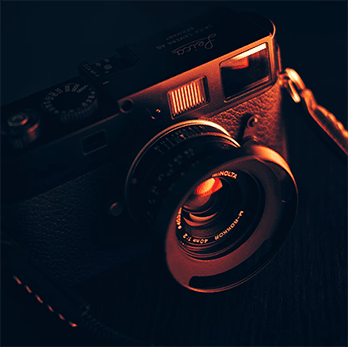
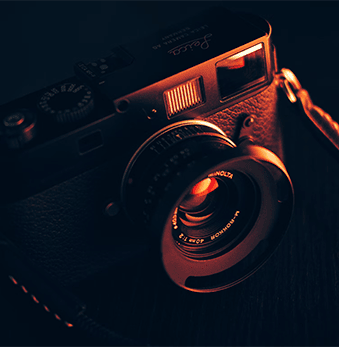
ajout width et height

diff --git a/assets/style.css b/assets/style.css
@@ -1,342 +1,1 @@
-body {
-  max-width: 1920px;
-  margin: auto;
-}
-* {
-  font-family: "Inter";
-  font-style: normal;
-}
-.top-header {
-  background-color: white;
-  position: sticky;
-  top: 0;
-  z-index: 1000;
-  display: flex;
-  justify-content: space-between;
-  padding-inline: 100px;
-  padding-block: 30px;
-  align-items: center;
-}
-.top-header .name {
-  font-size: 26px;
-}
-.nav ul {
-  display: flex;
-  list-style-type: none;
-  font-size: 14px;
-  margin-bottom: 0;
-}
-.nav li {
-  padding-inline: 10px;
-}
-.nav a {
-  text-decoration: none;
-  color: #000;
-}
-.social-link img {
-  width: 20px;
-}
-#about {
-  display: flex;
-  background-color: #f6d2b8;
-  padding-inline: 100px;
-  padding-block: 100px;
-  position: relative;
-}
-.picture.left::before {
-  content: " ";
-  background-color: #e5975f;
-  width: 374px;
-  height: 329px;
-  position: absolute;
-  bottom: 0;
-  left: 0;
-  z-index: -1;
-}
-.picture {
-  flex: 1;
-  margin: 0 20px;
-  z-index: 0;
-}
-.picture img {
-  width: 100%;
-  height: 100%;
-}
-#about-me {
-  flex: 2;
-}
-.about-me__title {
-  margin-top: 1em;
-  margin-bottom: 60px;
-  font-size: 30px;
-}
-.about-me__introduction {
-  font-family: "Spectral";
-  font-weight: 800;
-  font-style: italic;
-  width: 60%;
-}
-#about-me p {
-  width: 80%;
-  font-size: 14px;
-}
-#gallery {
-}
-.title {
-  text-align: center;
-  padding-block: 2em;
-}
-.gallery .nav {
-  justify-content: center;
-}
-.nav-pills .nav-link.active,
-.nav-pills .show > .nav-link {
-  color: #fff;
-  background-color: #1b6474;
-  border-radius: 0;
-}
-.nav-pills .nav-link {
-  color: #000;
-}
-.item-column {
-  position: relative;
-  margin-bottom: 0 !important;
-  padding: 0;
-}
-.item-column::after {
-  content: "";
-  display: block;
-  padding-bottom: 100%;
-}
-.gallery-item {
-  position: absolute;
-  width: 100%;
-  height: 100%;
-  object-fit: cover;
-  padding: 0.5em;
-}
-.mg-prev,
-.mg-next {
-  width: 30px;
-  height: 30px;
-  border-radius: 00%;
-  justify-content: center;
-  align-items: center;
-  display: flex;
-  font-size: 24px;
-}
-.quote {
-  font-family: "Spectral";
-  font-style: italic;
-  width: 70%;
-  margin: auto;
-  padding-block: 3em;
-}
-.quote__text {
-  font-family: Spectral;
-  font-style: italic;
-  font-weight: 300;
-}
-.quote__author {
-  font-family: Spectral;
-  font-weight: 800;
-  font-size: 22px;
-}
-#services {
-  margin: auto;
-  background-color: #a8d5d8;
-  position: relative;
-}
-#services .container::before {
-  content: " ";
-  background-color: #1c6474;
-  position: absolute;
-  width: 100%;
-  height: 30%;
-  bottom: 0;
-  left: 0;
-  z-index: 0;
-}
-#services .container {
-  justify-content: space-between;
-  display: flex;
-  padding: 2em 0;
-}
-.service {
-  background-color: white;
-  max-width: 390px;
-  width: 30%;
-  height: 337px;
-  padding: 1em;
-  display: flex;
-  flex-direction: column;
-  justify-content: space-between;
-  z-index: 1;
-}
-#contact {
-  margin: auto;
-  background-color: #d8d3a8;
-  position: relative;
-  padding-inline: 100px;
-  padding-block: 100px;
-}
-#contact .container {
-  display: flex;
-}
-.picture.right::before {
-  content: " ";
-  background-color: #beb45a;
-  width: 374px;
-  height: 329px;
-  position: absolute;
-  bottom: 0;
-  right: 0;
-  z-index: -1;
-}
-.form-container {
-  flex: 2;
-}
-form {
-  display: flex;
-  flex-direction: column;
-  width: 70%;
-  align-items: flex-start;
-}
-form input {
-  width: 100%;
-  background-color: transparent;
-  border: solid 1px;
-  height: 2.5em;
-  margin-bottom: 20px;
-}
-form textarea {
-  width: 100%;
-  background-color: transparent;
-  border: solid 1px;
-  height: 5em;
-  line-height: 2.5em;
-  font-size: 1.2em;
-  margin-bottom: 20px;
-}
-input[type="submit"] {
-  background-color: #beb45a;
-  padding: 0.5em 1em;
-}
-@media all and (max-width: 1180px) {
-  .picture {
-    flex: 2;
-  }
-  #about,
-  #contact .container {
-    align-items: center;
-  }
-  .about-me__title {
-    margin-top: 0;
-    margin-bottom: 1em;
-  }
-  #about-me h6,
-  #about-me p {
-    width: 100%;
-  }
-}
-@media all and (max-width: 1000px) {
-  #about {
-    flex-direction: column;
-  }
-  .picture {
-    width: 50%;
-  }
-  .picture.left::before {
-    width: 100%;
-    height: 30%;
-    position: absolute;
-    bottom: auto;
-    top: 0;
-    left: 0;
-    z-index: -1;
-  }
-  .about-me__title {
-    text-align: center;
-    margin-top: 1em;
-  }
-  #services .container {
-    flex-direction: column;
-  }
-  .service {
-    width: 100%;
-    max-width: 100%;
-    height: auto;
-    margin: 2em 0;
-  }
-  .service__description {
-    margin-bottom: 1em;
-  }
-  #services .container::before {
-    width: 30%;
-    height: 100%;
-    bottom: 0;
-    right: 0;
-    left: auto;
-    z-index: 0;
-  }
-  #contact .container {
-    flex-direction: column;
-  }
-  #contact .picture.right {
-    margin-top: 1em;
-  }
-  .picture.right::before {
-    width: 100%;
-    height: 30%;
-    position: absolute;
-    bottom: 0;
-    right: 0;
-    z-index: -1;
-  }
-}
-@media all and (max-width: 650px) {
-  .top-header {
-    flex-direction: column;
-    padding-inline: 0;
-  }
-  .top-header .nav,
-  .top-header .nav ul {
-    width: 100%;
-    padding: 0 0 0 0;
-  }
-  .top-header .nav li {
-    flex: 1;
-    padding-block: 1em;
-    text-align: center;
-  }
-  .picture.left::before,
-  .picture.right::before {
-    height: 150px;
-  }
-  #services .container {
-    align-items: center;
-  }
-  .service {
-    max-width: 90%;
-  }
-  #about,
-  #contact {
-    padding-inline: 2em;
-    padding-block: 2em;
-  }
-  form {
-    width: 100%;
-  }
-  .picture {
-    width: 80%;
-  }
-}
-footer {
-  background-color: #1c6474;
-  padding-block: 2em;
-  color: white;
-  text-align: center;
-  a {
-    color: white;
-  }
-}
+body{max-width:1920px;margin:auto;}*{font-family:"Inter";font-style:normal;}.top-header{background-color:white;position:sticky;top:0;z-index:1000;display:flex;justify-content:space-between;padding-inline:100px;padding-block:30px;align-items:center;}.top-header .name{font-size:26px;}.nav ul{display:flex;list-style-type:none;font-size:14px;margin-bottom:0;}.nav li{padding-inline:10px;}.nav a{text-decoration:none;color:#000;}.social-link img{width:20px;}#about{display:flex;background-color:#f6d2b8;padding-inline:100px;padding-block:100px;position:relative;}.picture.left::before{content:" ";background-color:#e5975f;width:374px;height:329px;position:absolute;bottom:0;left:0;z-index:-1;}.picture{flex:1;margin:0 20px;z-index:0;}.picture img{width:100%;}#about-me{flex:2;}.about-me__title{margin-top:1em;margin-bottom:60px;font-size:30px;}.about-me__introduction{font-family:"Spectral";font-weight:800;font-style:italic;width:60%;}#about-me p{width:80%;font-size:14px;}#gallery{}.title{text-align:center;padding-block:2em;}.gallery .nav{justify-content:center;}.nav-pills .nav-link.active,.nav-pills .show>.nav-link{color:#fff;background-color:#1b6474;border-radius:0;}.nav-pills .nav-link{color:#000;}.item-column{position:relative;margin-bottom:0!important;padding:0;}.item-column::after{content:"";display:block;padding-bottom:100%;}.gallery-item{position:absolute;width:100%;height:100%;object-fit:cover;padding:.5em;}.mg-prev,.mg-next{width:30px;height:30px;border-radius:00%;justify-content:center;align-items:center;display:flex;font-size:24px;}.quote{font-family:"Spectral";font-style:italic;width:70%;margin:auto;padding-block:3em;}.quote__text{font-family:Spectral;font-style:italic;font-weight:300;}.quote__author{font-family:Spectral;font-weight:800;font-size:22px;}#services{margin:auto;background-color:#a8d5d8;position:relative;}#services .container::before{content:" ";background-color:#1c6474;position:absolute;width:100%;height:30%;bottom:0;left:0;z-index:0;}#services .container{justify-content:space-between;display:flex;padding:2em 0;}.service{background-color:white;max-width:390px;width:30%;height:337px;padding:1em;display:flex;flex-direction:column;justify-content:space-between;z-index:1;}#contact{margin:auto;background-color:#d8d3a8;position:relative;padding-inline:100px;padding-block:100px;}#contact .container{display:flex;}.picture.right::before{content:" ";background-color:#beb45a;width:374px;height:329px;position:absolute;bottom:0;right:0;z-index:-1;}.form-container{flex:2;}form{display:flex;flex-direction:column;width:70%;align-items:flex-start;}form input{width:100%;background-color:transparent;border:solid 1px;height:2.5em;margin-bottom:20px;}form textarea{width:100%;background-color:transparent;border:solid 1px;height:5em;line-height:2.5em;font-size:1.2em;margin-bottom:20px;}input[type="submit"]{background-color:#beb45a;padding:.5em 1em;}@media all and (max-width:1180px){.picture{flex:2}#about,#contact .container{align-items:center}.about-me__title{margin-top:0;margin-bottom:1em}#about-me h6,#about-me p{width:100%}}@media all and (max-width:1000px){#about{flex-direction:column}.picture{width:50%}.picture.left::before{width:100%;height:30%;position:absolute;bottom:auto;top:0;left:0;z-index:-1}.about-me__title{text-align:center;margin-top:1em}#services .container{flex-direction:column}.service{width:100%;max-width:100%;height:auto;margin:2em 0}.service__description{margin-bottom:1em}#services .container::before{width:30%;height:100%;bottom:0;right:0;left:auto;z-index:0}#contact .container{flex-direction:column}#contact .picture.right{margin-top:1em}.picture.right::before{width:100%;height:30%;position:absolute;bottom:0;right:0;z-index:-1}}@media all and (max-width:650px){.top-header{flex-direction:column;padding-inline:0}.top-header .nav,.top-header .nav ul{width:100%;padding:0 0 0 0}.top-header .nav li{flex:1;padding-block:1em;text-align:center}.picture.left::before,.picture.right::before{height:150px}#services .container{align-items:center}.service{max-width:90%}#about,#contact{padding-inline:2em;padding-block:2em}form{width:100%}.picture{width:80%}}footer{background-color:#1c6474;padding-block:2em;color:white;text-align:center;a{color:white}}

diff --git a/index.html b/index.html
@@ -30,7 +30,7 @@
 	<link rel="stylesheet" href="./assets/style.css">
 	<link rel="preconnect" href="https://fonts.googleapis.com">
 	<link rel="preconnect" href="https://fonts.gstatic.com" crossorigin>
-	<link href="https://fonts.googleapis.com/css2?family=Inter&family=Spectral:ital,wght@1,300;1,800&display=swap"
+	<link href="https://fonts.googleapis.com/css2?family=Inter&family=Spectral:ital,wght@1,300;1,887&display=swap"
 		rel="stylesheet">
 
 	<script type="application/ld+json">
@@ -99,16 +99,16 @@
 			</div>
 			<div class="carousel-inner">
 				<div class="carousel-item active">
-					<img src="./assets/images/slider/ryoji-iwata-wUZjnOv7t0g-unsplash.webp" class="d-block w-100 h-100" width="1920" height="800"
-						alt="un homme qui travers un passage piétone">
+					<img src="./assets/images/slider/ryoji-iwata-wUZjnOv7t0g-unsplash.webp" class="d-block w-100 h-100"
+						width="1920" height="887" alt="un homme qui travers un passage piétone">
 				</div>
 				<div class="carousel-item">
-					<img src="./assets/images/slider/nicholas-green-nPz8akkUmDI-unsplash.webp" class="d-block w-100 h-100" width="1920" height="800"
-						alt="public joyeux">
+					<img src="./assets/images/slider/nicholas-green-nPz8akkUmDI-unsplash.webp"
+						class="d-block w-100 h-100" width="1920" height="887" alt="public joyeux">
 				</div>
 				<div class="carousel-item">
-					<img src="./assets/images/slider/edward-cisneros-3_h6-1NPDGw-unsplash.webp" class="d-block w-100 h-100" width="1920" height="800"
-						alt="ouverture de danse par les mariés">
+					<img src="./assets/images/slider/edward-cisneros-3_h6-1NPDGw-unsplash.webp"
+						class="d-block w-100 h-100" width="1920" height="887" alt="ouverture de danse par les mariés">
 				</div>
 			</div>
 			<button class="carousel-control-prev" type="button" data-bs-target="#carouselExampleIndicators"
@@ -124,7 +124,7 @@
 		</div>
 		<div id="about">
 			<div class="picture left">
-				<img src="./assets/images/nina.webp" alt="photo de nina" width="378" height="377">
+				<img src="./assets/images/nina.webp" alt="photo de nina" width="347" height="377">
 			</div>
 			<div id="about-me">
 				<h2 class="about-me__title">A propos de moi</h2>
@@ -255,7 +255,7 @@
 					</form>
 				</div>
 				<div class="picture right">
-					<img src="./assets/images/camera.webp" alt="appareil photo" width="348" height="347">
+					<img src="./assets/images/camera.webp" alt="appareil photo" width="339" height="347">
 				</div>
 			</div>
 		</div>
